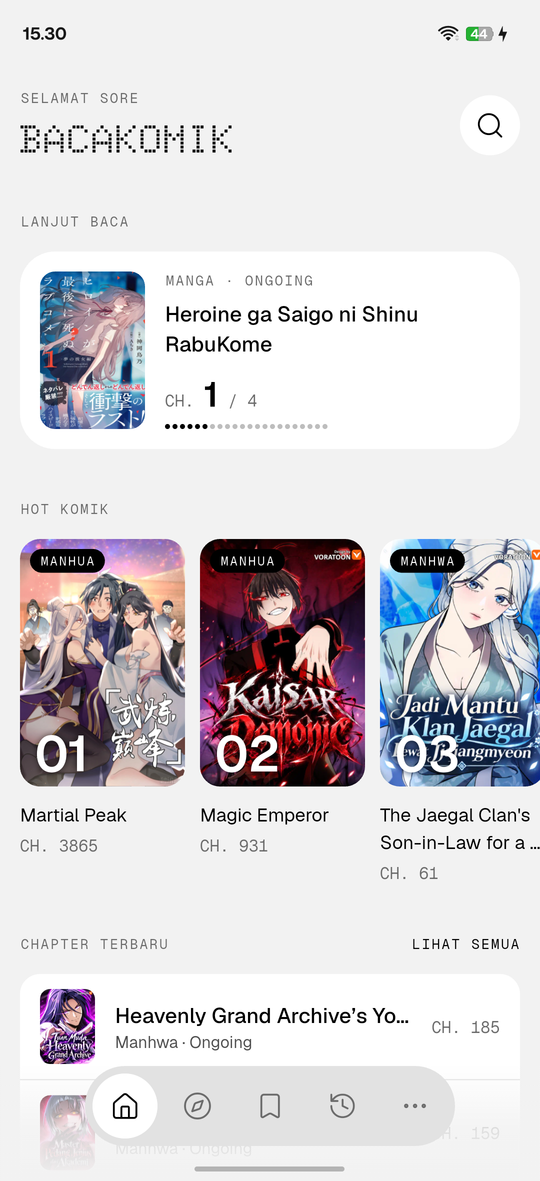
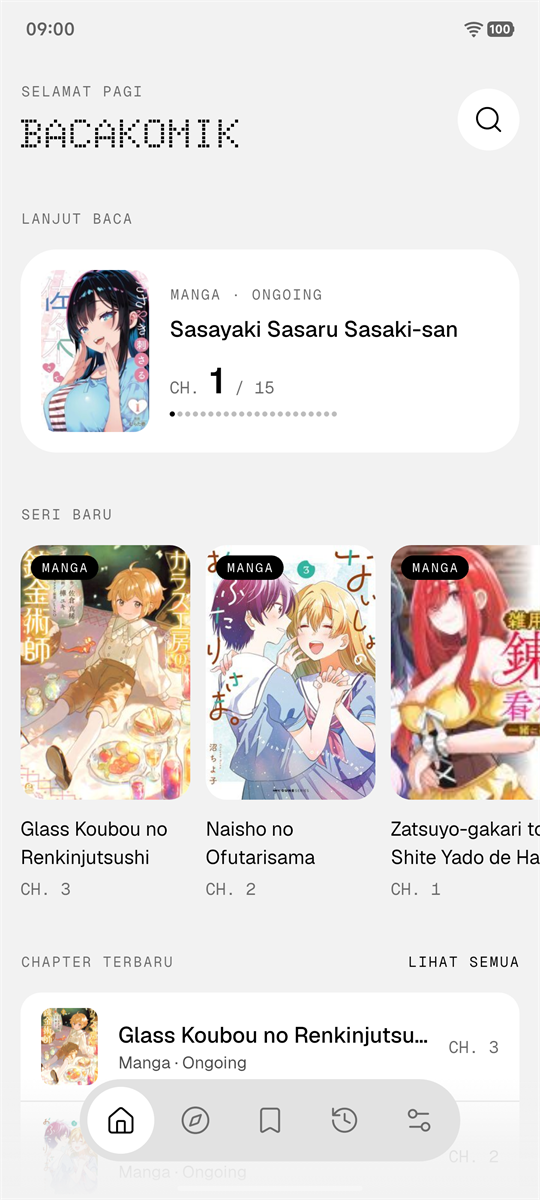
docs(readme): refresh screenshots for v1.5.0
- Retake every screenshot on an iQOO I2218 running v1.5.0
- Add chapter selection for download and the Downloads screen
- Update alt text for the new home sections and the Lainnya screen

diff --git a/README.md b/README.md
@@ -12,17 +12,17 @@ Get the APK from the [Releases](https://github.com/sofyan-rs/bacakomik-app-flutt
 
 | Splash | Beranda | Jelajah | Filter |
 |---|---|---|---|
-| <img src="screenshot/splash.png" width="200" alt="Splash screen"> | <img src="screenshot/home.png" width="200" alt="Home: continue reading, hot comics, latest chapters"> | <img src="screenshot/explore.png" width="200" alt="Jelajah: title search, type and cover grid"> | <img src="screenshot/filter.png" width="200" alt="Filter sheet: type, status, sort and genres"> |
+| <img src="screenshot/splash.png" width="200" alt="Splash screen"> | <img src="screenshot/home.png" width="200" alt="Home: continue reading, new series, latest chapters"> | <img src="screenshot/explore.png" width="200" alt="Jelajah: title search, type and cover grid"> | <img src="screenshot/filter.png" width="200" alt="Filter sheet: type, status, sort and genres"> |
 
 | Detail | Pembaca | Bookmark | Riwayat |
 |---|---|---|---|
 | <img src="screenshot/detail.png" width="200" alt="Comic details with stats, synopsis and genres"> | <img src="screenshot/reader.png" width="200" alt="Reader with chapter bar and page meter"> | <img src="screenshot/bookmark.png" width="200" alt="Bookmarks with new chapter badge and read meter"> | <img src="screenshot/history.png" width="200" alt="Reading history grouped by day"> |
 
-| Lainnya | Light theme |
-|---|---|
-| <img src="screenshot/more.png" width="200" alt="Stats, backup, cache and theme"> | <img src="screenshot/home-light.png" width="200" alt="Home in the light theme"> |
+| Lainnya | Unduh chapter | Unduhan | Light theme |
+|---|---|---|---|
+| <img src="screenshot/more.png" width="200" alt="Stats, downloads, backup, Google Drive sync and theme"> | <img src="screenshot/download-select.png" width="200" alt="Selecting chapters to download for offline reading"> | <img src="screenshot/downloads.png" width="200" alt="Downloads grouped by comic with storage used"> | <img src="screenshot/home-light.png" width="200" alt="Home in the light theme"> |
 
-Screenshots were taken on a real device (Realme RMX5085, Android 16).
+Screenshots were taken on a real device (iQOO I2218, Android 16) running v1.5.0.
 
 ## Features
 
